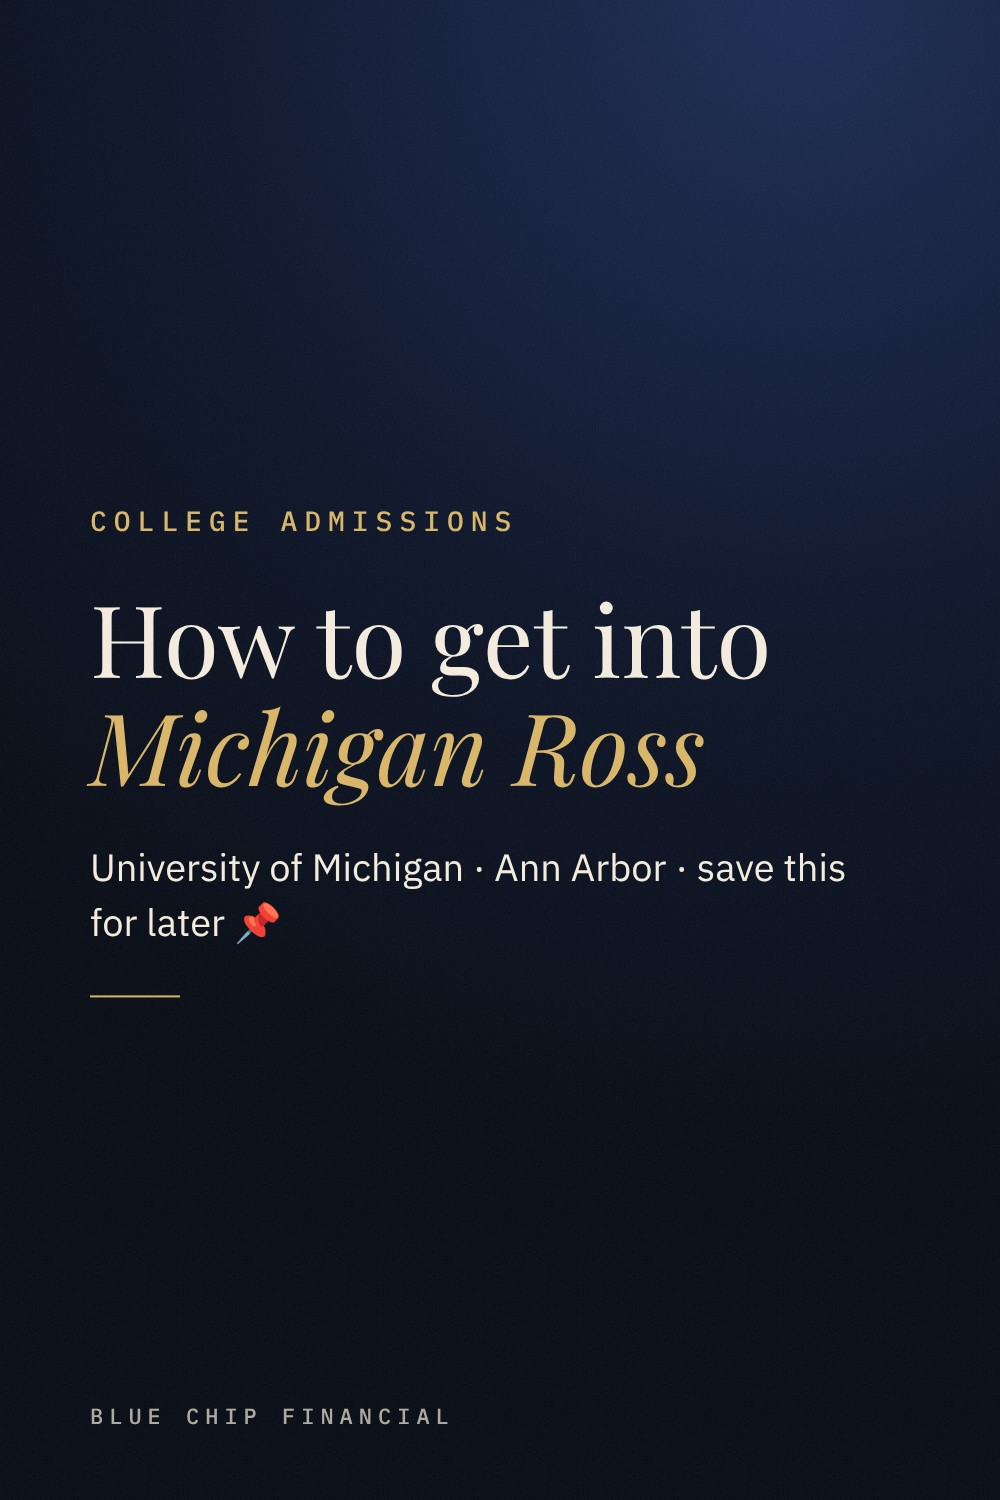
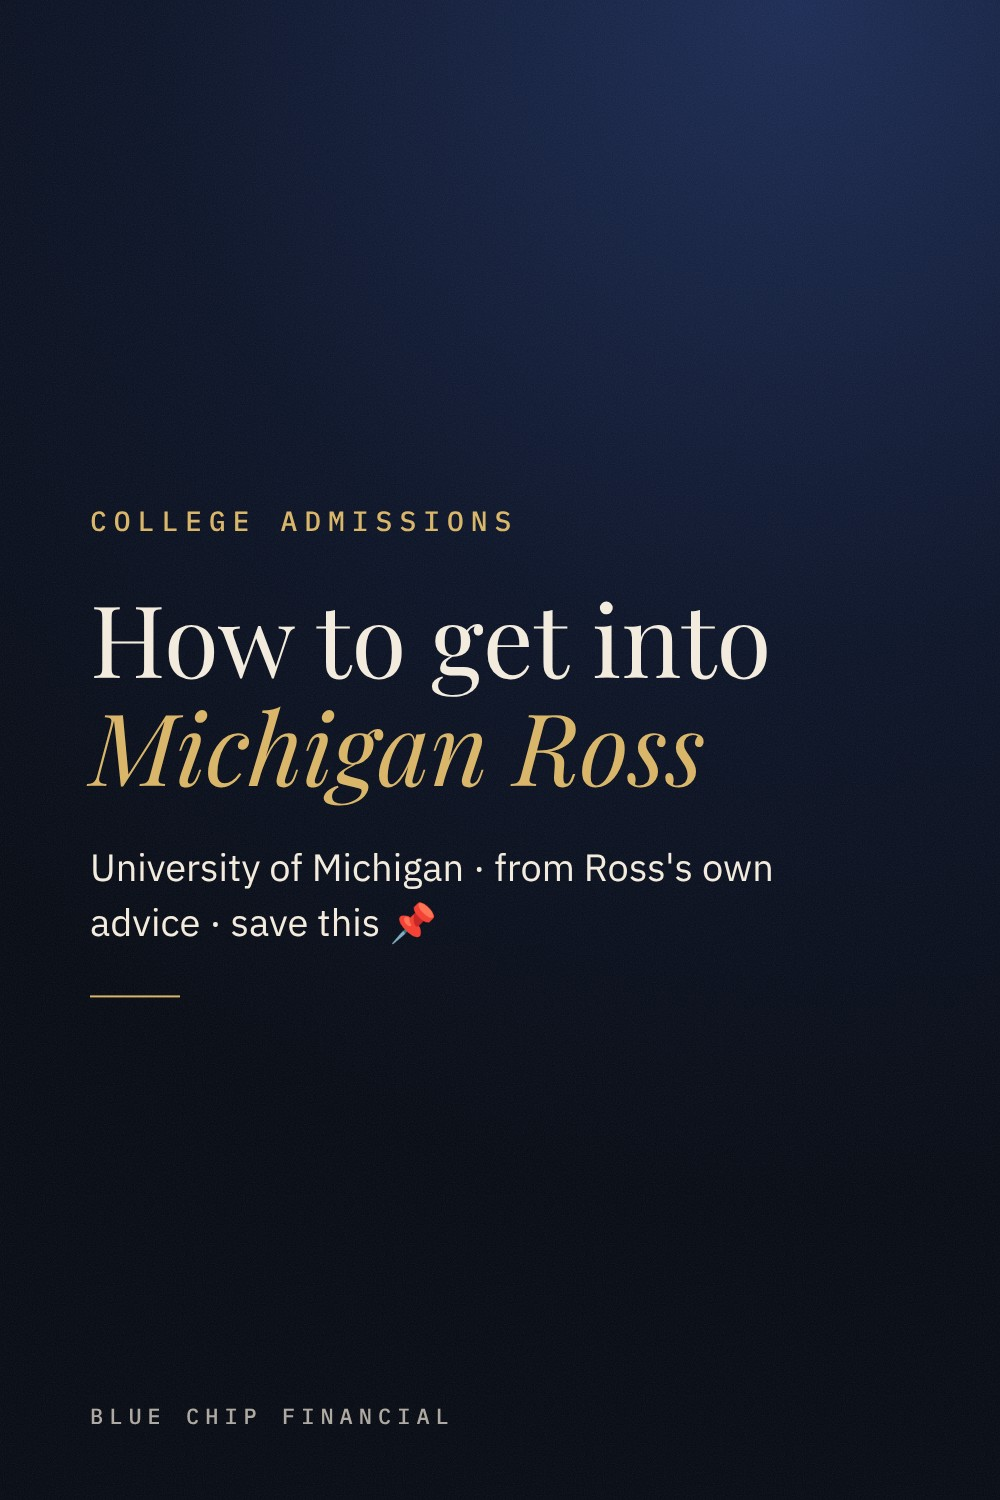
College guides v2: real how-to-apply steps (essay prompts, testing, deadlines)
Claude-Session: https://claude.ai/code/session_018SnaHsfzJaJW2C64MemJT9

diff --git a/social/DAILY.md b/social/DAILY.md
@@ -117,6 +117,7 @@ Boards (Bekir creates them on Pinterest; names must match exactly): Wall Street 
 Board: "How to Get Into Business School" (fall back to "M&A Prep" until Bekir creates it). Style reference: Pinterest "How to get into Georgetown" carousels.
 - 2 per day: a 7-slide multi-image pin (`pinNewFormat: true`, all 7 images in media) made with `gen/aesthetic.js` from a spec like `pin/college/wharton.json`: cover "How to get into <school>" → the numbers (acceptance rate, average SAT if sourced) → 4–5 concrete steps → recruiting/mnaprep.com slide.
 - Pick schools students search for: top undergrad business schools (Wharton, Stern, Ross, McIntire, Dyson, Marshall, Kenan-Flagler, Mendoza, Goizueta, Haas, McCombs, Kelley, Fisher…), plus target schools for Wall Street (Georgetown, Harvard, Columbia, Duke…) and later MBA programs.
+- **Bekir, 2026-11-09: the first version "doesn't even explain how to get in."** Each guide must teach the actual process for THAT school, 8 slides: cover → numbers → how you apply there (which app, which school to pick, direct admit or not) → testing policy → the school's real essay prompt(s) quoted with word limits → what that school says it looks for → deadlines/ED options → recruiting/mnaprep.com. Research the school's own admissions pages/blog first (then Common Data Set, student paper, Poets&Quants). See pin/college/wharton.json, ross.json, stern.json.
 - Every number must come from a source read that run (school class profile, Common Data Set, or Poets&Quants); name the source on the numbers slide. Never claim to be a certified counselor or admissions officer, never promise admission, and never use school logos, crests or mascots. Steps must be honest, general-but-specific advice (how you apply to that school, course rigor, real business projects, school-specific essay, plan recruiting early).
 - Done so far: Wharton, NYU Stern, Michigan Ross (scheduled 2026-11-10 on M&A Prep).
 
